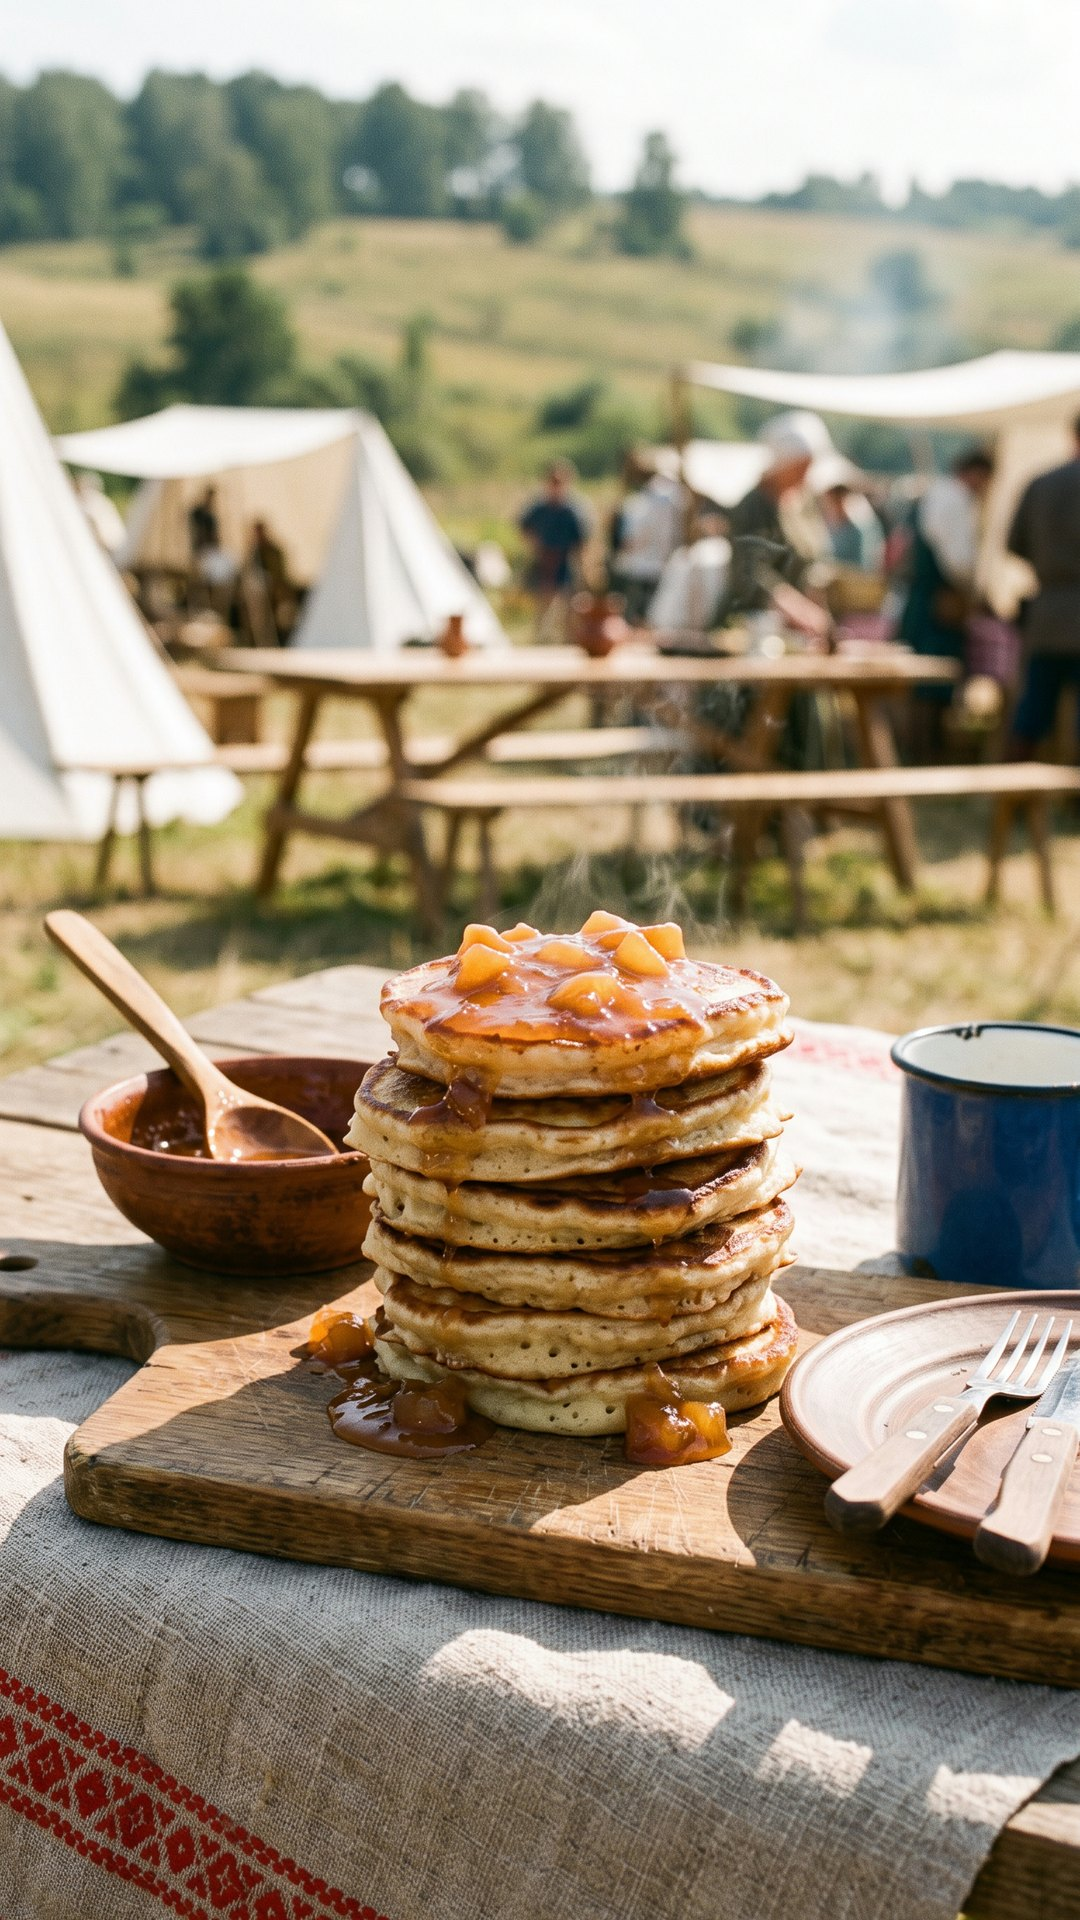
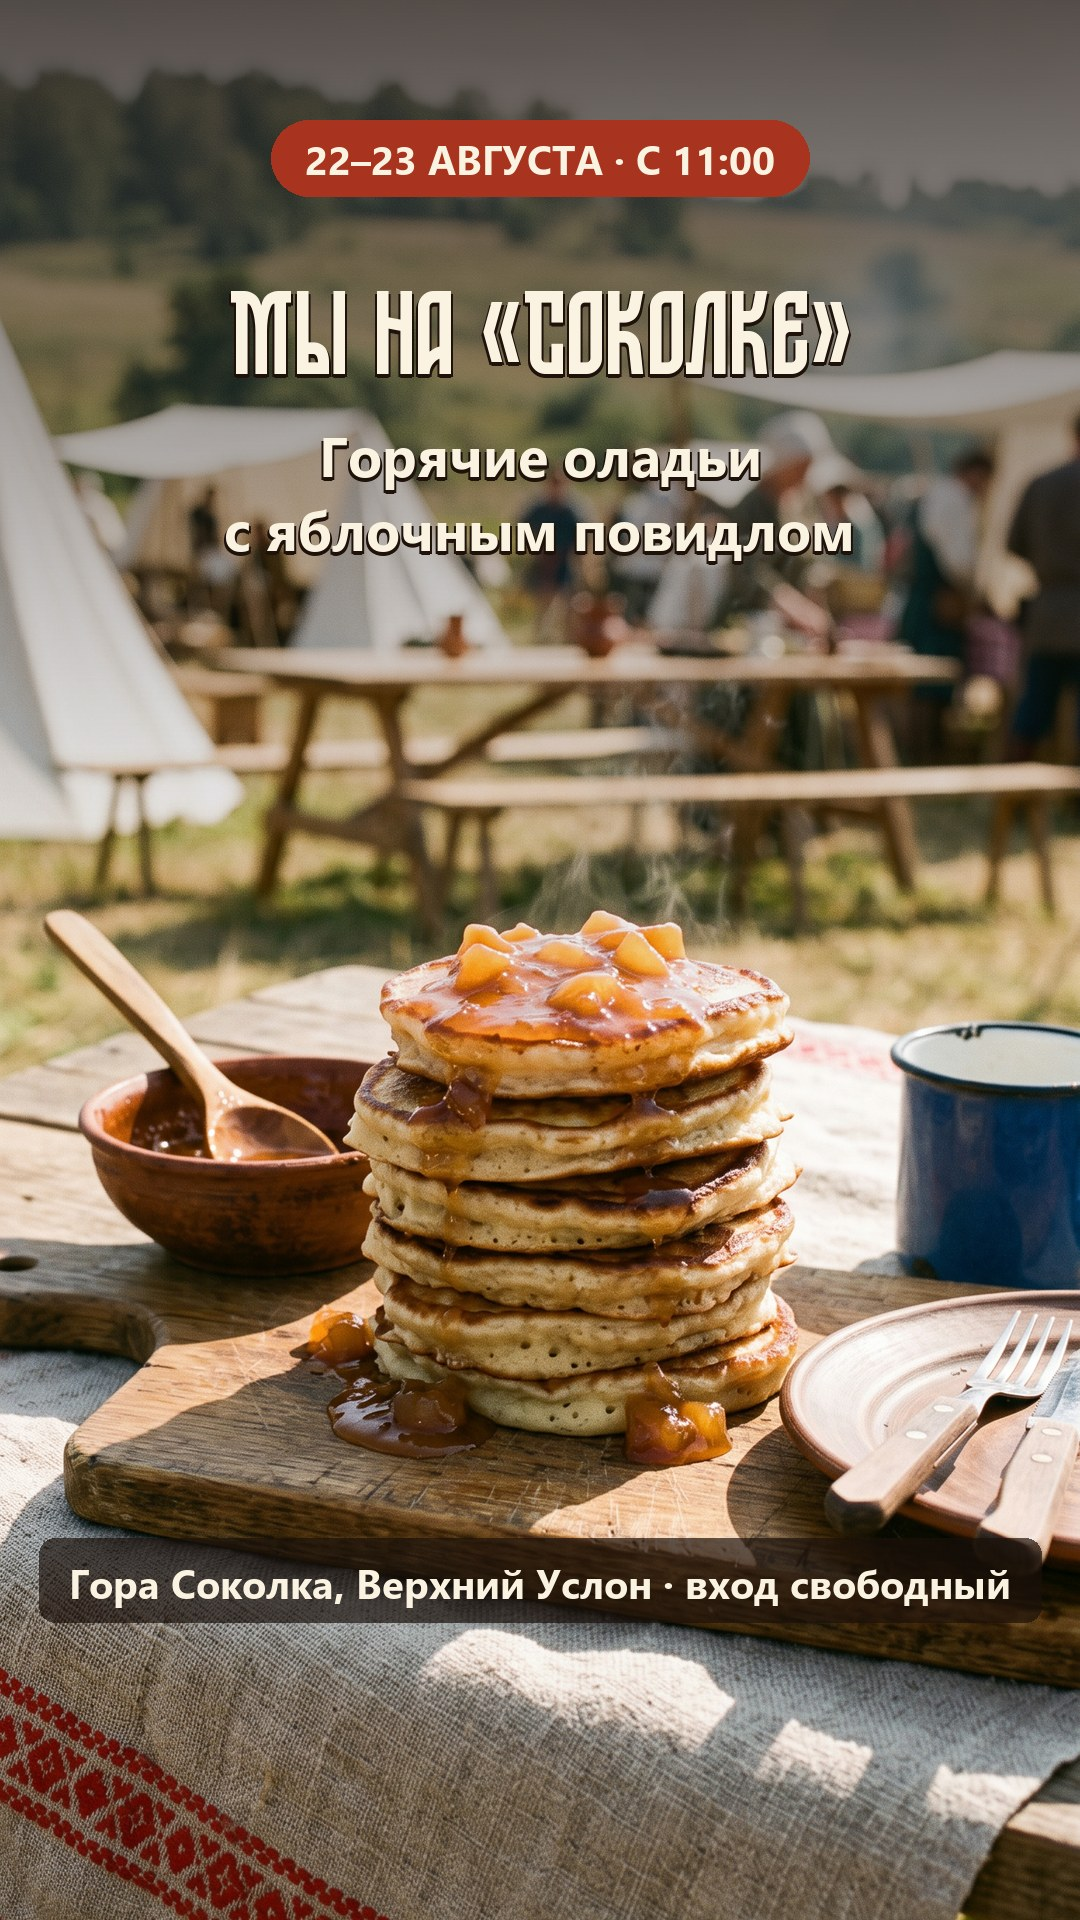
Оладушки: надписи на историях для Яндекс Карт (дата, место, «ищите стенд»)

diff --git a/oladushki-sokolka/index.html b/oladushki-sokolka/index.html
@@ -32,14 +32,14 @@
   <h1>Истории для карточки Яндекс Карт</h1>
   <p class="sub">Свияжские Оладушки на фестивале «Соколка», 22–23 августа 2026. Три вертикальных кадра 1080×1920.</p>
 
-  <p class="hint">С телефона: нажми «Скачать» под кадром → откроется картинка → удерживай палец → «Сохранить в галерею». Дальше — Яндекс Бизнес → карточка «Свияжские Оладушки» → Истории → добавить фото и подпись.</p>
+  <p class="hint">Надписи уже впечатаны в кадры — дата, время, место и «ищите наш стенд». Текст держится в верхней части: снизу Яндекс рисует свои кнопки.<br><br>С телефона: нажми «Скачать» под кадром → откроется картинка → удерживай палец → «Сохранить в галерею». Дальше — Яндекс Бизнес → карточка «Свияжские Оладушки» → Истории → добавить фото.</p>
 
   <div class="grid">
     <figure>
       <img src="story-1-oladi.jpg" alt="Стопка оладий с яблочным повидлом на деревянном столе, за ним шатры фестиваля">
       <figcaption>
         <b>Оладьи крупно</b>
-        <span>Подпись: «Печём горячие оладьи с яблочным повидлом — 22 и 23 августа на Соколке»</span>
+        <span>Надпись: «Мы на Соколке» · оладьи с повидлом · вход свободный</span>
       </figcaption>
       <a class="dl" href="story-1-oladi.jpg" download>Скачать</a>
     </figure>
@@ -47,7 +47,7 @@
       <img src="story-2-samovar.jpg" alt="Медный самовар с паром и чашки травяного чая на фоне Волги и фестиваля">
       <figcaption>
         <b>Самовар и чай</b>
-        <span>Подпись: «Чай на свияжских травах из настоящего самовара. Ищите нас на фестивале»</span>
+        <span>Надпись: «Чай из самовара» · ищите стенд «Свияжские оладушки»</span>
       </figcaption>
       <a class="dl" href="story-2-samovar.jpg" download>Скачать</a>
     </figure>
@@ -55,7 +55,7 @@
       <img src="story-3-stend.jpg" alt="Деревянный прилавок под полотняным навесом с самоваром и сковородой, вид на Волгу">
       <figcaption>
         <b>Стенд с видом на Волгу</b>
-        <span>Подпись: «Гора Соколка, Верхний Услон. 22–23 августа с 11:00, вход свободный»</span>
+        <span>Надпись: «Ищите наш стенд» · оладьи, чай, корзины и береста</span>
       </figcaption>
       <a class="dl" href="story-3-stend.jpg" download>Скачать</a>
     </figure>
